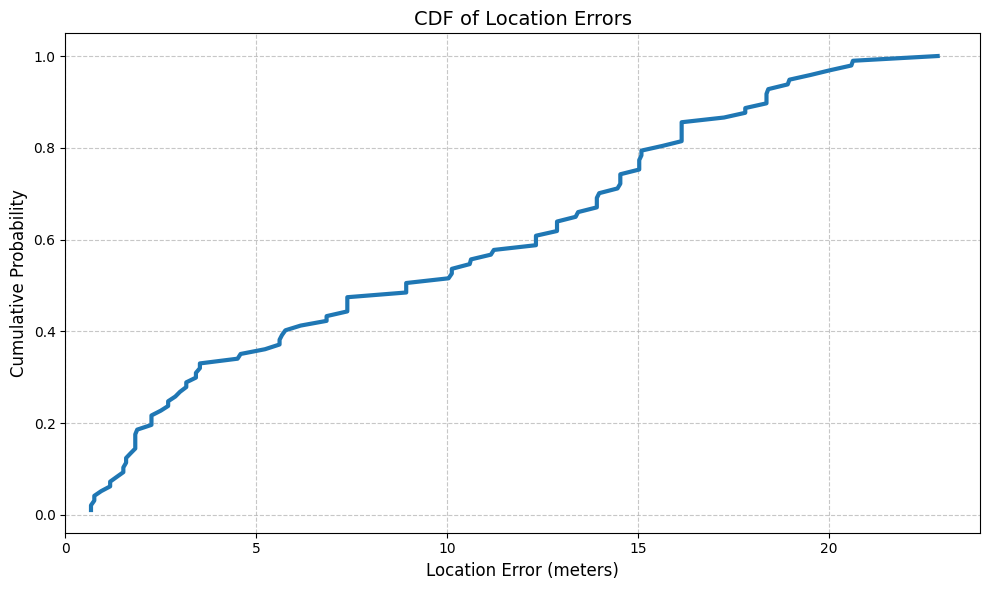
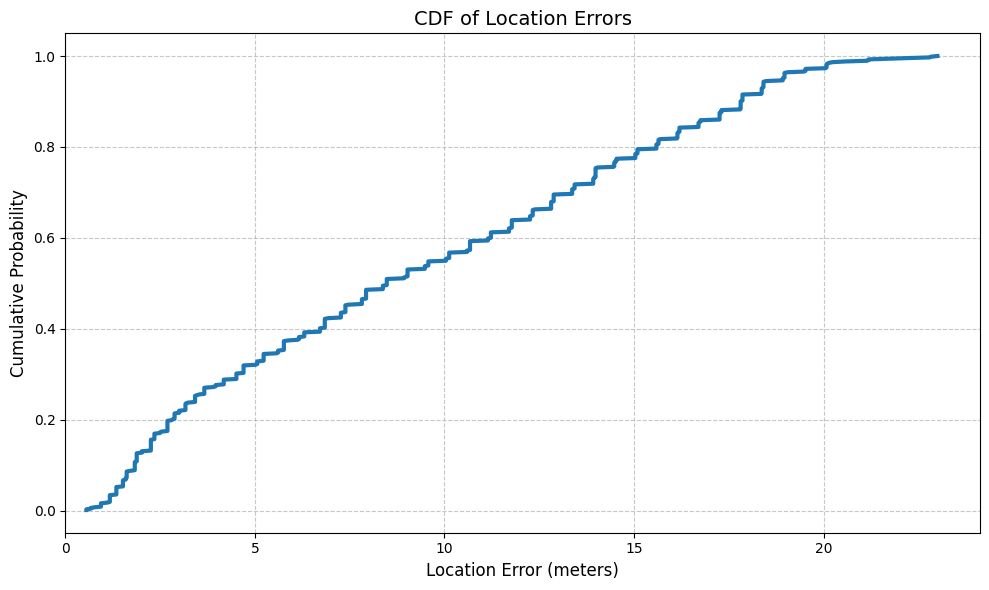
version that is on the server fully working, still some issues of cdf graphs taking too much space
version that is on the server fully working, still some issues of cdf graphs taking too much space

diff --git a/DLoc-cwu-fedmeta/dloc_v2/model.py b/DLoc-cwu-fedmeta/dloc_v2/model.py
@@ -305,6 +305,9 @@ class TrigAOAResNetModel(pl.LightningModule):
         for metrics_name, metrics_value in metrics_result.items():
             if metrics_name.startswith('location_error'):
                 self.log(f"val_{metrics_name}", metrics_value.item() if isinstance(metrics_value, torch.Tensor) else metrics_value)
+            elif metrics_name == MetricNames.LOCATION_CDF_ERROR:
+            # Skip logging the figure here - we'll handle it separately
+                continue
 
         # log the visualization data very self.display_viz_data_epoch_interval epoch
 

diff --git a/DLoc-cwu-fedmeta/dloc_v2/testload.py b/DLoc-cwu-fedmeta/dloc_v2/testload.py
@@ -49,7 +49,7 @@ def parquet_to_txt(input_path, output_path=None, max_rows=None):
         return None
 
 # Usage example
-input_file = "./data/new.parquet"  # Replace with your Parquet file path
+input_file = "./data/2025-04-20 18_01_03.006 (1).parquet"  # Replace with your Parquet file path
 output_file = "./data/new.txt"  # Optional - will auto-generate if None
 
 result_path = parquet_to_txt(input_file, output_file)

diff --git a/DLoc-cwu-fedmeta/dloc_v2/dataset.py b/DLoc-cwu-fedmeta/dloc_v2/dataset.py
@@ -176,9 +176,7 @@ if __name__ == "__main__":
     heatmap, aoa, gps = ds[idx - 1]
     print("\nSample data:")
     print(f" • heatmap shape: {heatmap.shape}")
-    
-    
-    print(f" • AoA ground truth: {aoa[0].item():.2f}")
+    print(f" • AoA ground truth: {aoa.item():.2f}")
     print(f" • Normalized GPS: lat={gps[0].item():.6f}, lon={gps[1].item():.6f}")
 
     # 6) Optional visualize first AP

diff --git a/DLoc-cwu-fedmeta/dloc_v2/fetch_data_csv.py b/DLoc-cwu-fedmeta/dloc_v2/fetch_data_csv.py
@@ -110,6 +110,5 @@ def main(bucket_name="wl-data"):
     except Exception as e:
         print(f"❌ Error: {e}")
 
-
 if __name__ == "__main__":
     main()
